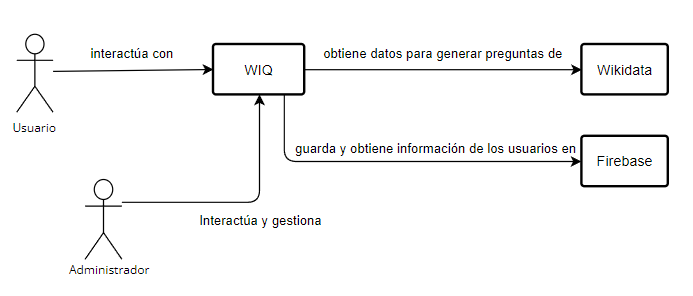
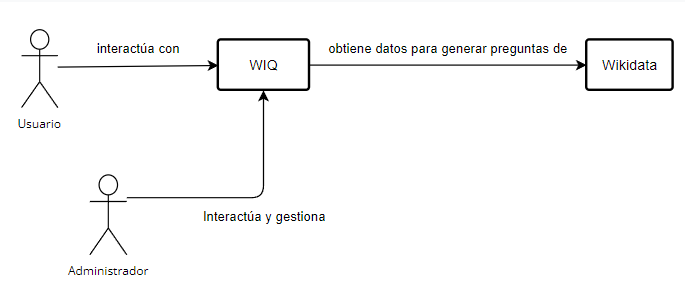
Updates

Changed region(s): [[0.0307, 0.0915, 1.0, 0.9458], [0.0, 0.3966, 0.092, 0.4576]]

diff --git a/index.html b/index.html
@@ -4,7 +4,7 @@
 <meta charset="UTF-8">
 <meta http-equiv="X-UA-Compatible" content="IE=edge">
 <meta name="viewport" content="width=device-width, initial-scale=1.0">
-<meta name="generator" content="Asciidoctor 2.0.21">
+<meta name="generator" content="Asciidoctor 2.0.20">
 <title>Documentación wiq_es05a</title>
 <link rel="stylesheet" href="https://fonts.googleapis.com/css?family=Open+Sans:300,300italic,400,400italic,600,600italic%7CNoto+Serif:400,400italic,700,700italic%7CDroid+Sans+Mono:400,700">
 <style>
@@ -140,7 +140,7 @@ p a>code:hover{color:rgba(0,0,0,.9)}
 #content::before{content:none}
 #header>h1:first-child{color:rgba(0,0,0,.85);margin-top:2.25rem;margin-bottom:0}
 #header>h1:first-child+#toc{margin-top:8px;border-top:1px solid #dddddf}
-#header>h1:only-child{border-bottom:1px solid #dddddf;padding-bottom:8px}
+#header>h1:only-child,body.toc2 #header>h1:nth-last-child(2){border-bottom:1px solid #dddddf;padding-bottom:8px}
 #header .details{border-bottom:1px solid #dddddf;line-height:1.45;padding-top:.25em;padding-bottom:.25em;padding-left:.25em;color:rgba(0,0,0,.6);display:flex;flex-flow:row wrap}
 #header .details span:first-child{margin-left:-.125em}
 #header .details span.email a{color:rgba(0,0,0,.85)}
@@ -162,7 +162,6 @@ p a>code:hover{color:rgba(0,0,0,.9)}
 #toctitle{color:#7a2518;font-size:1.2em}
 @media screen and (min-width:768px){#toctitle{font-size:1.375em}
 body.toc2{padding-left:15em;padding-right:0}
-body.toc2 #header>h1:nth-last-child(2){border-bottom:1px solid #dddddf;padding-bottom:8px}
 #toc.toc2{margin-top:0!important;background:#f8f8f7;position:fixed;width:15em;left:0;top:0;border-right:1px solid #e7e7e9;border-top-width:0!important;border-bottom-width:0!important;z-index:1000;padding:1.25em 1em;height:100%;overflow:auto}
 #toc.toc2 #toctitle{margin-top:0;margin-bottom:.8rem;font-size:1.2em}
 #toc.toc2>ul{font-size:.9em;margin-bottom:0}
@@ -328,7 +327,7 @@ a.image{text-decoration:none;display:inline-block}
 a.image object{pointer-events:none}
 sup.footnote,sup.footnoteref{font-size:.875em;position:static;vertical-align:super}
 sup.footnote a,sup.footnoteref a{text-decoration:none}
-sup.footnote a:active,sup.footnoteref a:active,#footnotes .footnote a:first-of-type:active{text-decoration:underline}
+sup.footnote a:active,sup.footnoteref a:active{text-decoration:underline}
 #footnotes{padding-top:.75em;padding-bottom:.75em;margin-bottom:.625em}
 #footnotes hr{width:20%;min-width:6.25em;margin:-.25em 0 .75em;border-width:1px 0 0}
 #footnotes .footnote{padding:0 .375em 0 .225em;line-height:1.3334;font-size:.875em;margin-left:1.2em;margin-bottom:.2em}
@@ -498,6 +497,7 @@ body.book #toc,body.book #preamble,body.book h1.sect0,body.book .sect1>h2{page-b
 <li><a href="#section-technical-risks">11. Riesgos y Deudas Técnicas</a>
 <ul class="sectlevel2">
 <li><a href="#_riesgos_técnicos">11.1. Riesgos Técnicos</a></li>
+<li><a href="#_deudas_técnicas">11.2. Deudas Técnicas</a></li>
 </ul>
 </li>
 <li><a href="#section-glossary">12. Glosario</a></li>
@@ -676,7 +676,7 @@ If you as an architect do not know how the quality of your work will be judged&#
 <tbody>
 <tr>
 <td class="tableblock halign-left valign-top"><p class="tableblock"><em><strong>Usabilidad</strong></em></p></td>
-<td class="tableblock halign-left valign-top"><p class="tableblock"><em><em>La aplicación tiene que poder usarse por el mayor tipo de usuarios</em></em></p></td>
+<td class="tableblock halign-left valign-top"><p class="tableblock"><em><em>La aplicación tiene que poder usarse por el mayor tipo de usuarios, promoviendo una experiencia intuitiva y accesible desde el primer contacto. Además, a medida que los usuarios interactúan más con la aplicación, esta se vuelva más fácil de usar.</em></em></p></td>
 </tr>
 <tr>
 <td class="tableblock halign-left valign-top"><p class="tableblock"><em><strong>Rendimiento</strong></em></p></td>
@@ -684,7 +684,7 @@ If you as an architect do not know how the quality of your work will be judged&#
 </tr>
 <tr>
 <td class="tableblock halign-left valign-top"><p class="tableblock"><em><strong>Testeable</strong></em></p></td>
-<td class="tableblock halign-left valign-top"><p class="tableblock"><em><em>La aplicación debe pasar las pruebas generadas automaticamente para cada versión</em></em></p></td>
+<td class="tableblock halign-left valign-top"><p class="tableblock"><em><em>Las pruebas deben ser capaces de detectar errores de manera rápida y precisa, fáciles de mantener y actualizar a medida que el código base cambia. Esto implica que las pruebas estén bien estructuradas y documentadas.</em></em></p></td>
 </tr>
 <tr>
 <td class="tableblock halign-left valign-top"><p class="tableblock"><em><strong>Disponibilidad</strong></em></p></td>
@@ -747,7 +747,7 @@ These stakeholders determine the extent and the level of detail of your work and
 </thead>
 <tbody>
 <tr>
-<td class="tableblock halign-left valign-top"><p class="tableblock"><em><strong>Cristian Augusto</strong></em></p></td>
+<td class="tableblock halign-left valign-top"><p class="tableblock"><em><strong>Profesor</strong></em></p></td>
 <td class="tableblock halign-left valign-top"><p class="tableblock"><em><em>Aplicar correctamente los conocimientos y competencias adquiridos en la asignatura Arquitectura del Software</em></em></p></td>
 <td class="tableblock halign-left valign-top"><p class="tableblock"><em><em>Profesor de la asignatura</em></em></p></td>
 </tr>
@@ -763,17 +763,17 @@ These stakeholders determine the extent and the level of detail of your work and
 </tr>
 <tr>
 <td class="tableblock halign-left valign-top"><p class="tableblock"><em><strong>Usuarios Registrados</strong></em></p></td>
-<td class="tableblock halign-left valign-top"><p class="tableblock"><em><em>Una aplicación que proporcione los servicios esperados</em></em></p></td>
-<td class="tableblock halign-left valign-top"><p class="tableblock"><em><em>Los usuarios de la aplicación</em></em></p></td>
+<td class="tableblock halign-left valign-top"><p class="tableblock"><em><em>Poder jugar en la aplicación que recrea el juego sin tener que participar en el programa.</em></em></p></td>
+<td class="tableblock halign-left valign-top"><p class="tableblock"><em><em>Usuarios que ya han jugado anteriormente</em></em></p></td>
 </tr>
 <tr>
 <td class="tableblock halign-left valign-top"><p class="tableblock"><em><strong>Usuarios No Registrados</strong></em></p></td>
-<td class="tableblock halign-left valign-top"><p class="tableblock"><em><em>Una buena aplicación</em></em></p></td>
-<td class="tableblock halign-left valign-top"><p class="tableblock"><em><em>Los usuarios de la aplicación</em></em></p></td>
+<td class="tableblock halign-left valign-top"><p class="tableblock"><em><em>Poder registrarse lo más rápido posible para empezar a jugar al juego de preguntas y respuestas</em></em></p></td>
+<td class="tableblock halign-left valign-top"><p class="tableblock"><em><em>Usuarios que nunca jugaron antes</em></em></p></td>
 </tr>
 <tr>
 <td class="tableblock halign-left valign-top"><p class="tableblock"><em><strong>RTVE</strong></em></p></td>
-<td class="tableblock halign-left valign-top"><p class="tableblock"><em><em>Una buena versión de su juego "Saber y Ganar"</em></em></p></td>
+<td class="tableblock halign-left valign-top"><p class="tableblock"><em><em>Versión mejorada de "Saber y Ganar" para ganar mayor audiencia e interés social.</em></em></p></td>
 <td class="tableblock halign-left valign-top"><p class="tableblock"><em><em>Dueño del producto</em></em></p></td>
 </tr>
 </tbody>
@@ -829,18 +829,17 @@ Por ello esta aplicación está desarrollada siguiendo una serie de limitaciones
 <tbody>
 <tr>
 <td class="tableblock halign-left valign-top"><p class="tableblock"><em><strong>GIT</strong></em></p></td>
-<td class="tableblock halign-left valign-top"><p class="tableblock"><em><em>En la asignatura se requiere el uso del sistema de control de versiones GIT, además de emplear GitHub como repositorio. Además nos permite
-una continua integración mediante la paralelización del trabajo usando el sistema de ramas. También GitHub permite organizar las distintas tareas de cada
-miembro del equipo mediante el uso de las Issues.</em></em></p></td>
+<td class="tableblock halign-left valign-top"><p class="tableblock"><em><em>En la asignatura se requiere el uso del sistema de control de versiones GIT, además de emplear GitHub como repositorio. Asimismo, nos permite
+una continua integración de forma remota mediante la paralelización del trabajo usando el sistema de ramas.</em></em></p></td>
 </tr>
 <tr>
 <td class="tableblock halign-left valign-top"><p class="tableblock"><em><strong>Docker</strong></em></p></td>
-<td class="tableblock halign-left valign-top"><p class="tableblock"><em><em>Esta tecnología de contenerización es utilizada para desplegar la aplicación web tanto en el entorno de desarrollo como en el de producción
+<td class="tableblock halign-left valign-top"><p class="tableblock"><em><em>Esta tecnología de contenerización será requerida ya que la usaremos para desplegar la aplicación web tanto en el entorno de desarrollo como en el de producción
 y realizar las pruebas pertinentes.</em></em></p></td>
 </tr>
 <tr>
 <td class="tableblock halign-left valign-top"><p class="tableblock"><em><strong>Wikidata</strong></em></p></td>
-<td class="tableblock halign-left valign-top"><p class="tableblock"><em><em>Fuente de información utilizada para generar aleatoriamente tanto las preguntas como las respuestas correctas e incorrectas del juego.</em></em></p></td>
+<td class="tableblock halign-left valign-top"><p class="tableblock"><em><em>En la asignatura se requiere que esta sea la fuente de información principal para generar aleatoriamente tanto las preguntas como las respuestas correctas e incorrectas del juego.</em></em></p></td>
 </tr>
 </tbody>
 </table>
@@ -875,6 +874,21 @@ con alguna de estas.</em></em></p></td>
 <td class="tableblock halign-left valign-top"><p class="tableblock"><em><em>Para mantener un buen ritmo de trabajo a través de una correcta organización se realizan reuniones semanales en las clases prácticas de la asignatura. Además, mantenemos contacto
 a través de nuestro grupo de WhatsApp y en casos necesarios realizamos reuniones extraordinarias utilizando nuestro servidor de Discord.</em></em></p></td>
 </tr>
+<tr>
+<td class="tableblock halign-left valign-top"><p class="tableblock"><em><strong>Issues</strong></em></p></td>
+<td class="tableblock halign-left valign-top"><p class="tableblock"><em><em>Para el seguimiento y la gestión de las tareas, problemas, mejoras, autoinformes, etc. de la aplicación tendremos que usar las issues ofrecidas por github; esto es una obligación ya
+ que reflejara el trabajo realizado por cada miembro del equipo al poder asignarse cada issue.</em></em></p></td>
+</tr>
+<tr>
+<td class="tableblock halign-left valign-top"><p class="tableblock"><em><strong>Actas</strong></em></p></td>
+<td class="tableblock halign-left valign-top"><p class="tableblock"><em><em>Al igual que las issues, las actas servirán para la organización de las tareas asi como para la toma de decisiones, y tendrán
+ que reflejar el trabajo repartido a cada miembro. Se deberán realizar obligatoriamente cada vez que se realice una reunión y deberán constar los miembros del
+ equipo que han participado.</em></em></p></td>
+</tr>
+<tr>
+<td class="tableblock halign-left valign-top"><p class="tableblock"><em><strong>Decisiones arquitectónicas</strong></em></p></td>
+<td class="tableblock halign-left valign-top"><p class="tableblock"><em><em>Las decisiones arquitectónicas pueden ser una limitación organizativa al definir la estructura básica de un sistema de software, lo que podría obstaculizar la capacidad de realizar cambios y adaptarse a nuevas necesidades y tecnologías.</em></em></p></td>
+</tr>
 </tbody>
 </table>
 </div>
@@ -894,7 +908,8 @@ a través de nuestro grupo de WhatsApp y en casos necesarios realizamos reunione
 <tbody>
 <tr>
 <td class="tableblock halign-left valign-top"><p class="tableblock"><em><strong>Diseño del software</strong></em></p></td>
-<td class="tableblock halign-left valign-top"><p class="tableblock"><em><em>Para lograr un buen diseño es indispensable que el código de la aplicación sea flexible, mantenible y comprensible.</em></em></p></td>
+<td class="tableblock halign-left valign-top"><p class="tableblock"><em><em>Para lograr un buen diseño es indispensable que el código de la aplicación sea flexible, mantenible y comprensible. Además se espera un código limpio ('clean code'),
+es decir, que sea fácil de entender, mantener y modificar, y que garantize la claridad, simplicidad y legibilidad.</em></em></p></td>
 </tr>
 <tr>
 <td class="tableblock halign-left valign-top"><p class="tableblock"><em><strong>Documentación</strong></em></p></td>
@@ -902,14 +917,13 @@ a través de nuestro grupo de WhatsApp y en casos necesarios realizamos reunione
 </tr>
 <tr>
 <td class="tableblock halign-left valign-top"><p class="tableblock"><em><strong>Accesibilidad</strong></em></p></td>
-<td class="tableblock halign-left valign-top"><p class="tableblock"><em><em>Intentaremos que nuestra aplicación puede ser utilizada por cualquier tipo de usuario, sin importar quién sea. Seguiremos el estándard WCAG de la W3C,
-usando el color, tamaño de texto&#8230;&#8203; adecuados para ello.</em></em></p></td>
+<td class="tableblock halign-left valign-top"><p class="tableblock"><em><em>Nos esforzaremos para que nuestra aplicación sea accesible para todos los usuarios, independientemente de su perfil o características individuales.</em></em></p></td>
 </tr>
 <tr>
 <td class="tableblock halign-left valign-top"><p class="tableblock"><em><strong>Estructura</strong></em></p></td>
-<td class="tableblock halign-left valign-top"><p class="tableblock"><em><em>Debe seguir una estructura fija y bajo los mismos estandares. Los diferentes modulos estarán separados en carpetas
-principalmente: 'users' para la api rest y el registro de usuarios, 'webapp' para el desarrollo de la aplicación, 'docs'
-para la documentación.</em></em></p></td>
+<td class="tableblock halign-left valign-top"><p class="tableblock"><em><em>Debe seguir una estructura de paquetes fija y bajo los mismos estandares. Los diferentes modulos estarán separados en carpetas: 'userservice' para la gestión de
+usuarios (registro y autentificación), 'questionservice' para la comunicación con wikidata y 'webapp' para el desarrollo de la aplicación. Todos estos
+servicios estarán comunicados por 'gatewayservice'.</em></em></p></td>
 </tr>
 <tr>
 <td class="tableblock halign-left valign-top"><p class="tableblock"><em><strong>Convenciones del lenguaje de programación</strong></em></p></td>
@@ -1059,8 +1073,8 @@ together with a mapping table showing the relationships between channels and inp
 <td class="tableblock halign-left valign-top"><p class="tableblock">Contiene el frontend y backend de la aplicación.</p></td>
 </tr>
 <tr>
-<td class="tableblock halign-left valign-top"><p class="tableblock"><em><strong>MySQL</strong></em></p></td>
-<td class="tableblock halign-left valign-top"><p class="tableblock">Base de datos relacional para el almacenamiento de preguntas y respuestas.</p></td>
+<td class="tableblock halign-left valign-top"><p class="tableblock"><em><strong>MongoDB</strong></em></p></td>
+<td class="tableblock halign-left valign-top"><p class="tableblock">Base de datos no relacional para el almacenamiento de usuarios.</p></td>
 </tr>
 <tr>
 <td class="tableblock halign-left valign-top"><p class="tableblock"><em><strong>Usuario</strong></em></p></td>
@@ -1083,12 +1097,24 @@ together with a mapping table showing the relationships between channels and inp
 <td class="tableblock halign-left valign-top"><p class="tableblock">Biblioteca de Javascript para creación de interfaces de usuario, utilizado en el frontend.</p></td>
 </tr>
 <tr>
-<td class="tableblock halign-left valign-top"><p class="tableblock"><em><strong>Firebase</strong></em></p></td>
-<td class="tableblock halign-left valign-top"><p class="tableblock">Plataforma de desarrollo de Google, se utiliza en el login del sistema.</p></td>
-</tr>
-<tr>
 <td class="tableblock halign-left valign-top"><p class="tableblock"><em><strong>Bootstrap</strong></em></p></td>
 <td class="tableblock halign-left valign-top"><p class="tableblock">Biblioteca para el diseño de aplicaciónes web.</p></td>
+</tr>
+<tr>
+<td class="tableblock halign-left valign-top"><p class="tableblock"><em><strong>webapp</strong></em></p></td>
+<td class="tableblock halign-left valign-top"><p class="tableblock">Módulo del sistema que se encarga de la interfaz del sistema.</p></td>
+</tr>
+<tr>
+<td class="tableblock halign-left valign-top"><p class="tableblock"><em><strong>questionservice</strong></em></p></td>
+<td class="tableblock halign-left valign-top"><p class="tableblock">Módulo del sistema que se encarga de la creación de preguntas con la API de Wikidata.</p></td>
+</tr>
+<tr>
+<td class="tableblock halign-left valign-top"><p class="tableblock"><em><strong>gateway</strong></em></p></td>
+<td class="tableblock halign-left valign-top"><p class="tableblock">Módulo del sistema que se encarga de coordinar el resto de modulos del sistmea.</p></td>
+</tr>
+<tr>
+<td class="tableblock halign-left valign-top"><p class="tableblock"><em><strong>userservice</strong></em></p></td>
+<td class="tableblock halign-left valign-top"><p class="tableblock">Módulo del sistema que se encarga de tener los modelos y hacer las consultas para el almacenamiento correcto de los usuarios de la aplicación.</p></td>
 </tr>
 </tbody>
 </table>
@@ -1295,10 +1321,6 @@ In the best case you will get away with examples or simple signatures.</p>
 <td class="tableblock halign-left valign-top"><p class="tableblock"><em><strong>Wikidata</strong></em></p></td>
 <td class="tableblock halign-left valign-top"><p class="tableblock"><em><em>Servicio externo desde donde obtenemos los datos para generar las preguntas.</em></em></p></td>
 </tr>
-<tr>
-<td class="tableblock halign-left valign-top"><p class="tableblock"><em><strong>Firebase</strong></em></p></td>
-<td class="tableblock halign-left valign-top"><p class="tableblock"><em><em>Plataforma para el manejo de sesiones de los usuarios, asi como informacion sobre sus estadisticas.</em></em></p></td>
-</tr>
 </tbody>
 </table>
 </div>
@@ -1327,12 +1349,29 @@ In the best case you will get away with examples or simple signatures.</p>
 </thead>
 <tbody>
 <tr>
-<td class="tableblock halign-left valign-top"><p class="tableblock"><em><strong>Webapp</strong></em></p></td>
+<td class="tableblock halign-left valign-top"><p class="tableblock"><em><strong>webapp</strong></em></p></td>
 <td class="tableblock halign-left valign-top"><p class="tableblock"><em><em>La interfaz con la que interactua el usuario.</em></em></p></td>
 </tr>
 <tr>
-<td class="tableblock halign-left valign-top"><p class="tableblock"><em><strong>REST</strong></em></p></td>
-<td class="tableblock halign-left valign-top"><p class="tableblock"><em><em>Manejo de datos de Wikidata.</em></em></p></td>
+<td class="tableblock halign-left valign-top"><p class="tableblock"><em><strong>gatewayservice</strong></em></p></td>
+<td class="tableblock halign-left valign-top"><p class="tableblock"><em><em>Servicio de puerta de enlace que actúa como intermediario entre los clientes y 	otros servicios,
+reenviando las solicitudes a los servicios correspondientes y devolviendo las respuestas al cliente.</em></em></p></td>
+</tr>
+<tr>
+<td class="tableblock halign-left valign-top"><p class="tableblock"><em><strong>authservice</strong></em></p></td>
+<td class="tableblock halign-left valign-top"><p class="tableblock"><em><em>Servicio de autenticación de usuarios.</em></em></p></td>
+</tr>
+<tr>
+<td class="tableblock halign-left valign-top"><p class="tableblock"><em><strong>userservice</strong></em></p></td>
+<td class="tableblock halign-left valign-top"><p class="tableblock"><em><em>Servicio para registro de usuarios.</em></em></p></td>
+</tr>
+<tr>
+<td class="tableblock halign-left valign-top"><p class="tableblock"><em><strong>questionservice</strong></em></p></td>
+<td class="tableblock halign-left valign-top"><p class="tableblock"><em><em>Servicio para el manejo de datos de Wikidata.</em></em></p></td>
+</tr>
+<tr>
+<td class="tableblock halign-left valign-top"><p class="tableblock"><em><strong>Wikidata</strong></em></p></td>
+<td class="tableblock halign-left valign-top"><p class="tableblock"><em><em>Servicio externo desde donde obtenemos los datos para generar las preguntas.</em></em></p></td>
 </tr>
 </tbody>
 </table>
@@ -1408,35 +1447,43 @@ You will mainly capture scenarios in your documentation to communicate your arch
 <div class="sect2">
 <h3 id="_inicio_de_sesión">6.1. Inicio de Sesión</h3>
 <div class="paragraph">
-<p>A la hora de iniciar sesión nuestra web App nos mostrara la ventana pidiendo los datos necesarios para poder empezar a jugar.</p>
+<p>Al iniciar sesión en nuestra Web App, se presentará una interfaz solicitando al usuario que ingrese los datos necesarios para comenzar a jugar. Estos datos incluirán información de identificación única, como nombre de usuario y contraseña, así como posiblemente otros detalles relevantes para el perfil del jugador.</p>
 </div>
 <div class="paragraph">
-<p>Se le piden una serie de datos al usuario que serán posteriormente pasados a Firebase encargado de controlar estos datos y devolverle a web App el ID del usuario que estará jugando.</p>
+<p>Una vez que el usuario proporciona estos datos, la Web App los enviará al servicio userService, que actuará como el backend encargado de autenticar al usuario y gestionar su sesión. userService verificará la validez de los datos proporcionados por el usuario y, si son correctos, emitirá un token de sesión único que identificará al usuario.</p>
 </div>
 <div class="paragraph">
-<p>Una vez que el usario a completado el inicio de sesión de forma exitosa nuestra web App pasará a mostrar la pantalla de inicio del juego.</p>
+<p>Este token de sesión se devolverá a la Web App, donde se utilizará para mantener la sesión del usuario durante su interacción con la plataforma de juego.</p>
+</div>
+<div class="paragraph">
+<p>Una vez que el proceso de inicio de sesión se completa con éxito, la Web App cambiará su interfaz para mostrar la pantalla de inicio del juego, donde el usuario podrá acceder a las diferentes opciones de juego y comenzar a participar en las actividades disponibles.</p>
 </div>
 <div class="imageblock">
 <div class="content">
-<img src="./images/06_acceso.png" alt="Diagrama vista de tiempo de ejecución para el acceso">
+<img src="./images/06_acceso2.png" alt="Diagrama vista de tiempo de ejecución para el acceso">
 </div>
 </div>
 </div>
 <div class="sect2">
 <h3 id="_interacción_con_preguntas">6.2. Interacción con Preguntas</h3>
 <div class="paragraph">
-<p>Rest que tiene nuestra base de datos será el encargado de obtener la pregunta con sus respuestas correctas e incorrectas y pasarsela a web App</p>
+<p>Comenzaremos con la REST API que se integra con nuestra base de datos y se encargará de la obtención de la pregunta junto con sus opciones de respuestas correctas e incorrectas, proporcionando así la información necesaria para la Web App.</p>
 </div>
 <div class="paragraph">
-<p>Web App comenzara mostrando por pantalla la pregunta con todas las respuestas disponibles, a lo que el usuario solo podrá escoger una respuesta de todas las posibles.
-Una vez el usuario elige la respuesta se comprobará si los resultados son correctos o errones.</p>
+<p>Al obtener dicha información, la Web App mostrará la pregunta junto con todas las opciones de respuesta disponibles al usuario, quien podrá seleccionar una única respuesta entre las opciones proporcionadas. Una vez que el usuario ha realizado su selección, la Web App verificará la precisión de la respuesta.</p>
 </div>
 <div class="paragraph">
-<p>En base a la respuesta del usuario web App mostrara si ha acertado o fallado de forma visual que lo pueda entender el usuario.</p>
+<p>Posteriormente, basándose en la respuesta proporcionada por el usuario, la Web App ofrecerá una retroalimentación visual clara que permitirá al usuario comprender si su respuesta fue correcta o incorrecta.</p>
+</div>
+<div class="paragraph">
+<p>Por tanto, terminaremos con una retroalimentación visual por pantalla del resultado obtenido tras la respuesta del jugador.</p>
+</div>
+<div class="paragraph">
+<p>Este flujo de interacción garantiza una experiencia de usuario fluida y comprensible, optimizando así la participación y el compromiso del usuario con la plataforma.</p>
 </div>
 <div class="imageblock">
 <div class="content">
-<img src="./images/06_pregunta.png" alt="Diagrama vista de tiempo de ejecución para la pregunta">
+<img src="./images/06_pregunta2.png" alt="Diagrama vista de tiempo de ejecución para la pregunta">
 </div>
 </div>
 <div style="page-break-after: always;"></div>
@@ -1572,12 +1619,12 @@ alojados en Azure.</p>
 <td class="tableblock halign-left valign-top"><p class="tableblock">Microservicio responsable de las vistas de la aplicación y sus interacciones con el usuario.</p></td>
 </tr>
 <tr>
-<td class="tableblock halign-left valign-top"><p class="tableblock"><strong>Rest</strong></p></td>
+<td class="tableblock halign-left valign-top"><p class="tableblock"><strong>QuestionService</strong></p></td>
 <td class="tableblock halign-left valign-top"><p class="tableblock">Microservicio responsable de generar preguntas y respuestas utilizando la información de Wikidata, almacenándola
 posteriormente en una base de datos MySQL.</p></td>
 </tr>
 <tr>
-<td class="tableblock halign-left valign-top"><p class="tableblock"><strong>Users</strong></p></td>
+<td class="tableblock halign-left valign-top"><p class="tableblock"><strong>UserService</strong></p></td>
 <td class="tableblock halign-left valign-top"><p class="tableblock">Microservicio encargado de gestionar los diferentes usuarios y sus partidas realizadas haciendo uso de la API Firebase.</p></td>
 </tr>
 <tr>
@@ -2006,6 +2053,8 @@ more precisely down to a level of scenarios that can be discussed and evaluated.
 </div>
 <div class="sect2">
 <h3 id="_riesgos_técnicos">11.1. Riesgos Técnicos</h3>
+<div class="sect3">
+<h4 id="_riesgos_internos">11.1.1. Riesgos internos</h4>
 <table class="tableblock frame-all grid-all stretch">
 <colgroup>
 <col style="width: 33.3333%;">
@@ -2029,10 +2078,27 @@ de trabajo de los demás compañeros.</em></em></p></td>
 suficiente tiempo al desarrollo de este proyecto.</em></em></p></td>
 </tr>
 <tr>
-<td class="tableblock halign-left valign-top"><p class="tableblock"><em><strong>Errores</strong></em></p></td>
-<td class="tableblock halign-left valign-top"><p class="tableblock"><em><em>Durante las pruebas de la aplicación pueden surgir errores que nos obliguen a realizar importantes cambios en esta. Esto puede provocar que el equipo invierta más horas de
+<td class="tableblock halign-left valign-top"><p class="tableblock"><em><strong>Errores de diseño</strong></em></p></td>
+<td class="tableblock halign-left valign-top"><p class="tableblock"><em><em>Los errores que surjan debido al diseño, implementacion o gestion interna del proyecto; nos obligarán a realizar cambios e invertir más horas de
 las planeadas para solucionar este tipo de problemas.</em></em></p></td>
 </tr>
+</tbody>
+</table>
+</div>
+<div class="sect3">
+<h4 id="_riesgos_externos">11.1.2. Riesgos externos</h4>
+<table class="tableblock frame-all grid-all stretch">
+<colgroup>
+<col style="width: 33.3333%;">
+<col style="width: 66.6667%;">
+</colgroup>
+<thead>
+<tr>
+<th class="tableblock halign-left valign-top">Riesgo</th>
+<th class="tableblock halign-left valign-top">Explicación</th>
+</tr>
+</thead>
+<tbody>
 <tr>
 <td class="tableblock halign-left valign-top"><p class="tableblock"><em><strong>Caída de Servicios</strong></em></p></td>
 <td class="tableblock halign-left valign-top"><p class="tableblock"><em><em>Nuestra aplicacion web puede verse comprometida a errores si alguno de los servicios utilizados, como por ejemplo Docker, parará de funcionar en algún momento.
@@ -2049,6 +2115,13 @@ esto podría bloquear la entrega de alguna de las funcionalidades del proyecto.<
 </tr>
 </tbody>
 </table>
+</div>
+</div>
+<div class="sect2">
+<h3 id="_deudas_técnicas">11.2. Deudas Técnicas</h3>
+<div class="paragraph">
+<p>TODO</p>
+</div>
 <div style="page-break-after: always;"></div>
 </div>
 </div>
@@ -2164,7 +2237,7 @@ See <a href="https://arc42.org" class="bare">https://arc42.org</a>.</p>
 <div id="footer">
 <div id="footer-text">
 Version 8.2 EN<br>
-Last updated 2024-03-12 18:02:26 +0100
+Last updated 2024-03-03 12:45:24 +0100
 </div>
 </div>
 </body>
